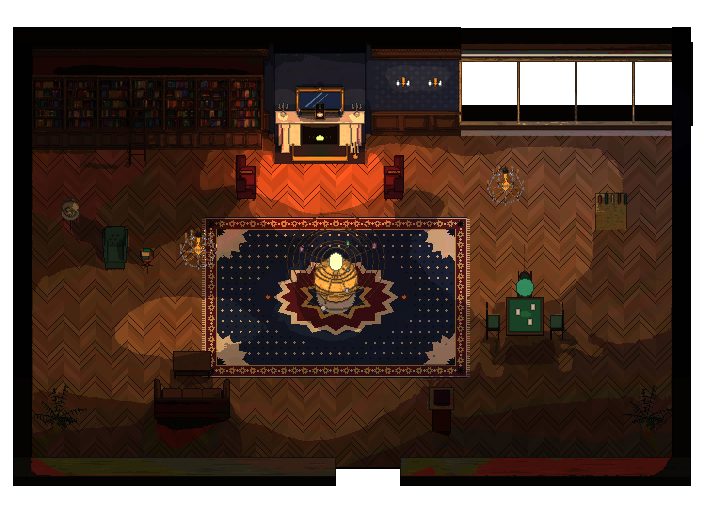
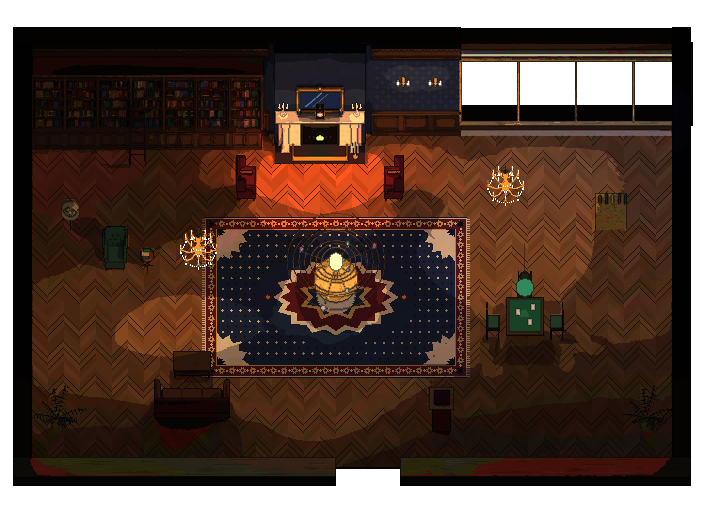
The members' club: its two chandeliers and the mantel candles shine gold and lit in the toy finish
Claude-Session: https://claude.ai/code/session_018nrKREDsAd8AvHNKa8Q1tE

diff --git a/tools/bridge-art/scenes/arcadia_members.py b/tools/bridge-art/scenes/arcadia_members.py
@@ -15,6 +15,7 @@ import math
 import sys
 
 from _spires_room import SP, E, CA, PH, S, Kit, shade, render, look, out_door, write_world  # noqa: F401
+E.GLEAM = True                                    # chandeliers and candles stay bright through the toy finish
 
 OUT = sys.argv[1]
 WID = 'arcadia-members'
